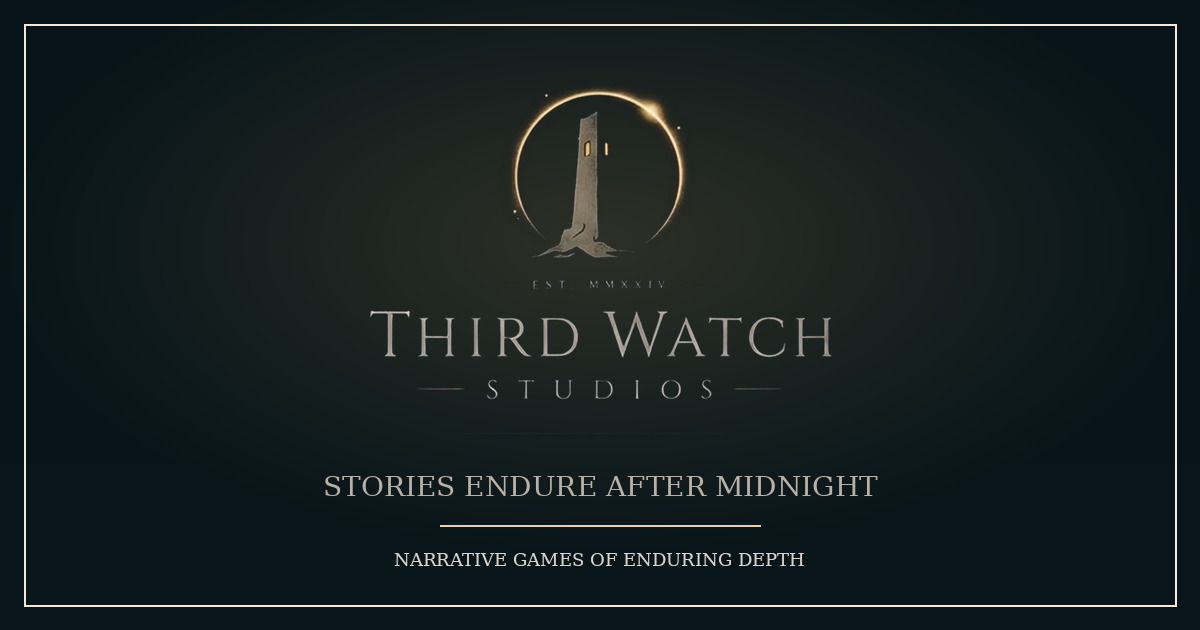
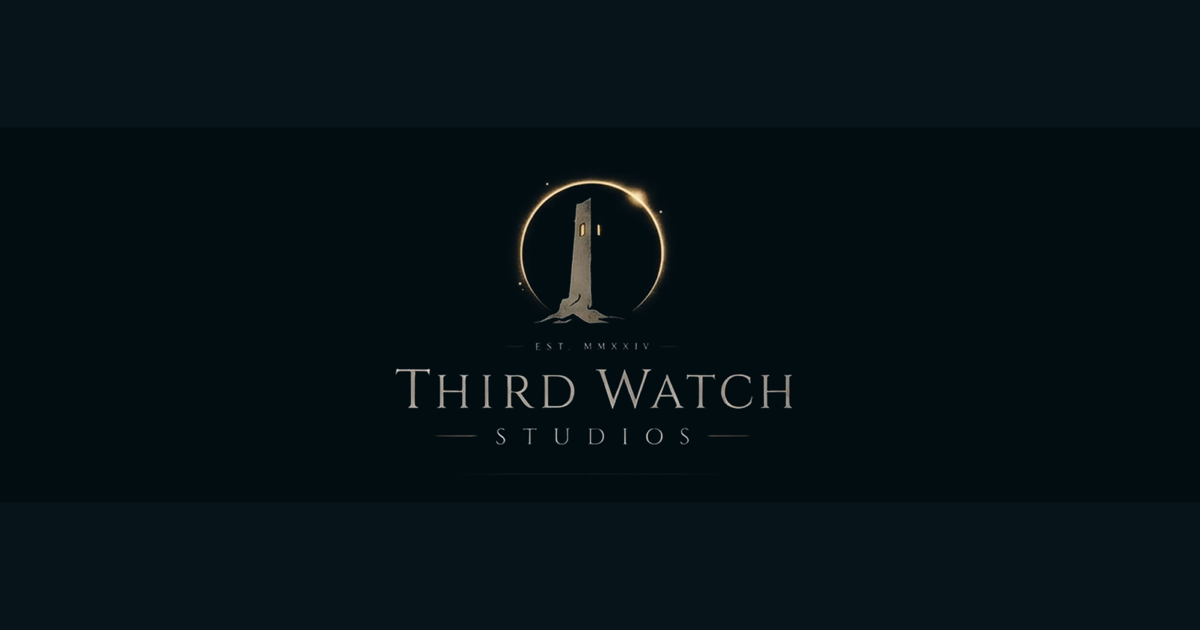
copy updates

diff --git a/docs/index.html b/docs/index.html
@@ -4,10 +4,10 @@
   <meta charset="utf-8" />
   <meta name="viewport" content="width=device-width, initial-scale=1" />
   <title>Third Watch Studios</title>
-  <meta name="description" content="Third Watch Studios - narrative games of enduring depth." />
+  <meta name="description" content="A guiding light to stranger shores. Atmospheric games about impossible places, old mysteries, bad ideas, and trouble beyond the familiar." />
   <link rel="canonical" href="https://thirdwatchstudios.com/" />
   <meta property="og:title" content="Third Watch Studios" />
-  <meta property="og:description" content="Stories endure after midnight." />
+  <meta property="og:description" content="Atmospheric games about impossible places, old mysteries, bad ideas, and the trouble waiting past the familiar." />
   <meta property="og:type" content="website" />
   <meta property="og:url" content="https://thirdwatchstudios.com/" />
   <meta property="og:image" content="https://thirdwatchstudios.com/assets/third-watch-open-graph-card-1200x630.png" />
@@ -15,23 +15,22 @@
   <link rel="icon" href="assets/favicon.ico" sizes="any" />
   <link rel="apple-touch-icon" href="assets/favicon-180.png" />
   <link rel="manifest" href="site.webmanifest" />
-  <link rel="stylesheet" href="styles.css" />
+  <link rel="stylesheet" href="styles.css?v=20260524-shores" />
 </head>
 <body>
   <main class="page">
     <section class="panel" aria-label="Third Watch Studios splash page">
-      <img class="logo" src="assets/third-watch-logo-lockup.png" alt="Third Watch Studios" />
-      <p class="eyebrow">Narrative games of enduring depth</p>
-      <h1>Stories endure<br />after midnight.</h1>
+      <img class="logo" src="assets/third-watch-website-header-1600x500.png" alt="Third Watch Studios" />
+      <h1 aria-label="A guiding light to stranger shores.">A guiding light<br />to stranger shores.</h1>
       <div class="divider" aria-hidden="true"></div>
       <p class="lede">
-        Third Watch Studios builds atmospheric narrative games about rescue, unstable worlds,
-        and the human light that remains when impossible systems begin to fail.
+        Third Watch Studios makes atmospheric games about impossible places,
+        old mysteries, bad ideas, and the trouble waiting past the familiar.
       </p>
       <nav class="actions" aria-label="Primary">
         <a class="button" href="mailto:hello@thirdwatchstudios.com">Contact</a>
       </nav>
-      <p class="footer-note">We keep watch so stories can endure.</p>
+      <p class="footer-note">The light is on.</p>
     </section>
   </main>
 </body>

diff --git a/docs/styles.css b/docs/styles.css
@@ -25,44 +25,44 @@ body::before {
   min-height: 100svh;
   display: grid;
   place-items: center;
-  padding: clamp(32px, 6vw, 84px) 24px;
+  padding: clamp(24px, 5vw, 64px) 24px;
   position: relative;
 }
 .panel {
-  width: min(980px, 100%);
+  width: min(940px, 100%);
   text-align: center;
-  padding: clamp(24px, 5vw, 64px);
+  padding: clamp(20px, 3vw, 40px);
   border: 1px solid var(--tws-border);
   background: linear-gradient(180deg, rgba(17,20,22,0.54), rgba(7,20,25,0.32));
   box-shadow: 0 28px 120px rgba(0,0,0,0.45), inset 0 1px 0 rgba(184,178,166,0.04);
   backdrop-filter: blur(6px);
 }
-.logo { width: min(680px, 88%); height: auto; display: block; margin: 0 auto clamp(30px, 4vw, 54px); filter: drop-shadow(var(--tws-shadow-amber)); }
+.logo { width: min(560px, 90%); height: auto; display: block; margin: 0 auto clamp(18px, 2.4vw, 30px); filter: drop-shadow(var(--tws-shadow-amber)); }
 .eyebrow {
   color: var(--tws-accent);
   text-transform: uppercase;
   letter-spacing: 0.28em;
   font-size: 0.78rem;
-  margin: 0 0 1.35rem;
+  margin: 0 0 0.85rem;
 }
 h1 {
   font-family: var(--tws-font-display);
   font-weight: 400;
   text-transform: uppercase;
   letter-spacing: 0.13em;
-  font-size: clamp(2.1rem, 6vw, 5.7rem);
+  font-size: clamp(2rem, 4.2vw, 3.8rem);
   line-height: 0.95;
   margin: 0;
 }
-.divider { width: min(520px, 72%); height: 1px; background: linear-gradient(90deg, transparent, rgba(214,155,75,0.72), transparent); margin: 2rem auto; }
+.divider { width: min(520px, 72%); height: 1px; background: linear-gradient(90deg, transparent, rgba(214,155,75,0.72), transparent); margin: 1.2rem auto; }
 .lede {
   max-width: 720px;
   margin: 0 auto;
   color: rgba(184,178,166,0.78);
   font-size: clamp(1rem, 1.8vw, 1.25rem);
-  line-height: 1.75;
+  line-height: 1.65;
 }
-.actions { margin-top: 2.35rem; display: flex; justify-content: center; gap: 14px; flex-wrap: wrap; }
+.actions { margin-top: 1.5rem; display: flex; justify-content: center; gap: 14px; flex-wrap: wrap; }
 .button {
   border: 1px solid rgba(214,155,75,0.45);
   color: var(--tws-text);
@@ -75,7 +75,7 @@ h1 {
 }
 .button:hover, .button:focus { background: rgba(214,155,75,0.13); box-shadow: var(--tws-shadow-amber); }
 .footer-note {
-  margin-top: 3rem;
+  margin-top: 1.7rem;
   color: rgba(184,178,166,0.38);
   text-transform: uppercase;
   letter-spacing: 0.26em;

diff --git a/third_watch_web_branding_kit/09_copy_blocks/website-copy-blocks.md b/third_watch_web_branding_kit/09_copy_blocks/website-copy-blocks.md
@@ -2,22 +2,29 @@
 
 ## Short tagline options
 
-- Stories endure after midnight.
-- Narrative games of enduring depth.
-- We keep watch so stories can endure.
+- A guiding light to stranger shores.
+- Strange shores. Warm light.
+- A light beyond familiar shores.
+- Play at the edge of the dark.
 - Human warmth inside vast darkness.
-- Quiet worlds. Enduring stories.
+- Quiet worlds. Bright trouble.
+
+## Current splash page copy
+
+### MVP 2026-05
+
+Third Watch Studios makes atmospheric games about impossible places, old mysteries, bad ideas, and the trouble waiting past the familiar.
 
 ## Splash page hero copy
 
 ### Option A
-Third Watch Studios builds atmospheric narrative games about rescue, unstable worlds, and the human light that remains when impossible systems begin to fail.
+Third Watch Studios makes atmospheric games about impossible places, old mysteries, bad ideas, and the trouble waiting past the familiar.
 
 ### Option B
-We make story-driven games about people keeping watch at the edge of collapse - quiet, resilient, mysterious, and human.
+We make atmospheric games about strange places, bad ideas, old mysteries, and trouble worth crossing.
 
 ### Option C
-A narrative game studio focused on atmospheric worlds, systemic tension, and stories that endure after midnight.
+A small game studio drawn to atmospheric worlds, genre mischief, and a little light left on.
 
 ## Button labels
 
@@ -30,6 +37,6 @@ A narrative game studio focused on atmospheric worlds, systemic tension, and sto
 ## Metadata
 
 Title: Third Watch Studios
-Description: Narrative games of enduring depth.
+Description: A guiding light to stranger shores. Atmospheric games about impossible places, old mysteries, bad ideas, and trouble beyond the familiar.
 Open graph title: Third Watch Studios
-Open graph description: Stories endure after midnight.
+Open graph description: Atmospheric games about impossible places, old mysteries, bad ideas, and the trouble waiting past the familiar.

diff --git a/planning/website-mvp.md b/planning/website-mvp.md
@@ -89,22 +89,22 @@ The MVP should be small and focused:
 Primary tagline:
 
 ```txt
-Stories endure after midnight.
+A guiding light to stranger shores.
 ```
 
 Short description:
 
 ```txt
-Third Watch Studios builds atmospheric narrative games about rescue, unstable worlds, and the human light that remains when impossible systems begin to fail.
+Third Watch Studios makes atmospheric games about impossible places, old mysteries, bad ideas, and the trouble waiting past the familiar.
 ```
 
 Metadata:
 
 ```txt
 Title: Third Watch Studios
-Description: Narrative games of enduring depth.
+Description: A guiding light to stranger shores. Atmospheric games about impossible places, old mysteries, bad ideas, and trouble beyond the familiar.
 Open graph title: Third Watch Studios
-Open graph description: Stories endure after midnight.
+Open graph description: Atmospheric games about impossible places, old mysteries, bad ideas, and the trouble waiting past the familiar.
 ```
 
 ## Open Decisions

diff --git a/third_watch_web_branding_kit/01_brand_guide/third-watch-starter-brand-guide.md b/third_watch_web_branding_kit/01_brand_guide/third-watch-starter-brand-guide.md
@@ -29,13 +29,13 @@ The core logo is the tower, the window, the circular aura, and the wordmark. The
 
 Use a dark, quiet splash page with the full logo centered, an amber divider, and short copy. Keep the page sparse. Let the logo and atmosphere do the work.
 
-Suggested headline:
+Current MVP headline:
 
-> Stories endure after midnight.
+> A guiding light to stranger shores.
 
-Suggested subcopy:
+Current MVP subcopy:
 
-> Third Watch Studios builds atmospheric narrative games about rescue, unstable worlds, and the human light that remains when impossible systems begin to fail.
+> Third Watch Studios makes atmospheric games about impossible places, old mysteries, bad ideas, and the trouble waiting past the familiar.
 
 ## Do
 
